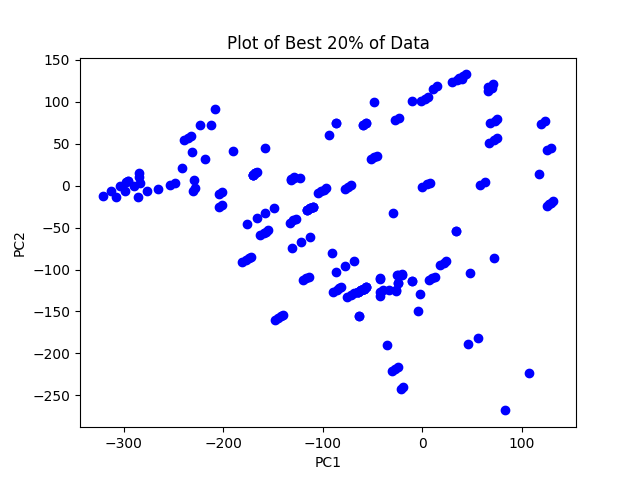
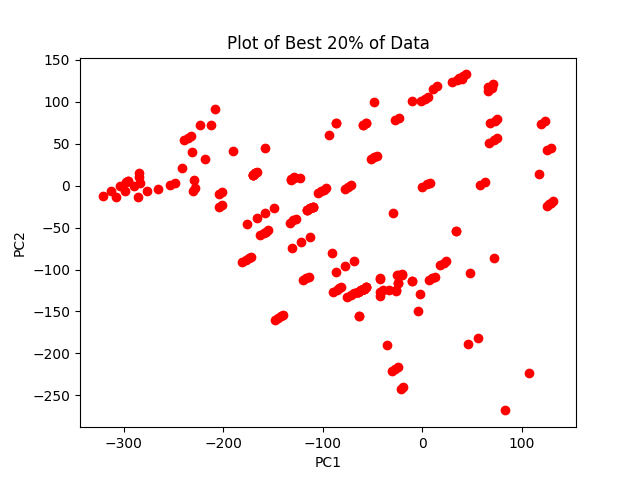
Addition in 3dviz

diff --git a/visualization.py b/visualization.py
@@ -19,6 +19,44 @@ def project_to3d(title, normalized_df, sorted_eigenvectors, strength_norm):
     ax.set_title(title)
     plt.savefig(f'plots/{title}.png')
     plt.show()
+
+    df = pd.DataFrame(projected_data)
+    df['normalized_comp_strength'] = strength_norm
+    df.sort_values('normalized_comp_strength', ascending=False, inplace=True)
+    first_20_percent = int(0.20 * len(df))
+    df_first_20_percent = df.iloc[:first_20_percent]
+
+    x = df_first_20_percent[0]
+    y = df_first_20_percent[1]
+    z = df_first_20_percent[2]
+    fig = plt.figure()
+    ax = fig.add_subplot(111, projection='3d')
+    ax.scatter(x, y, z, c='red')
+    ax.set_xlabel('PC1')
+    ax.set_ylabel('PC2')
+    ax.set_zlabel('PC3')
+    plt.title('Plot of Best 20% of Data')
+    plt.savefig(f'plots/best3d.png')
+    plt.show()
+
+    df = pd.DataFrame(projected_data)
+    df['normalized_comp_strength'] = strength_norm
+    df.sort_values('normalized_comp_strength', ascending=True, inplace=True)
+    first_20_percent = int(0.20 * len(df))
+    df_first_20_percent = df.iloc[:first_20_percent]
+    x = df_first_20_percent[0]
+    y = df_first_20_percent[1]
+    z = df_first_20_percent[2]
+    fig = plt.figure()
+    ax = fig.add_subplot(111, projection='3d')
+    ax.scatter(x, y, z, c='blue')
+    ax.set_xlabel('PC1')
+    ax.set_ylabel('PC2')
+    ax.set_zlabel('PC3')
+    plt.title('Plot of Worst 20% of Data')
+    plt.savefig(f'plots/worst3d.png')
+    plt.show()
+
     return basis_vectors
 
 
@@ -41,7 +79,7 @@ def project_to2d(title, cbar_label, normalized_df, eigenvectors, strength_norm):
     df.sort_values('normalized_comp_strength', ascending=False, inplace=True)
     first_20_percent = int(0.20 * len(df))
     df_first_20_percent = df.iloc[:first_20_percent]
-    plt.scatter(df_first_20_percent[0], df_first_20_percent[1], marker='o', linestyle='-', color='b')
+    plt.scatter(df_first_20_percent[0], df_first_20_percent[1], marker='o', linestyle='-', color='r')
     plt.xlabel('PC1')
     plt.ylabel('PC2')
     plt.title('Plot of Best 20% of Data')
